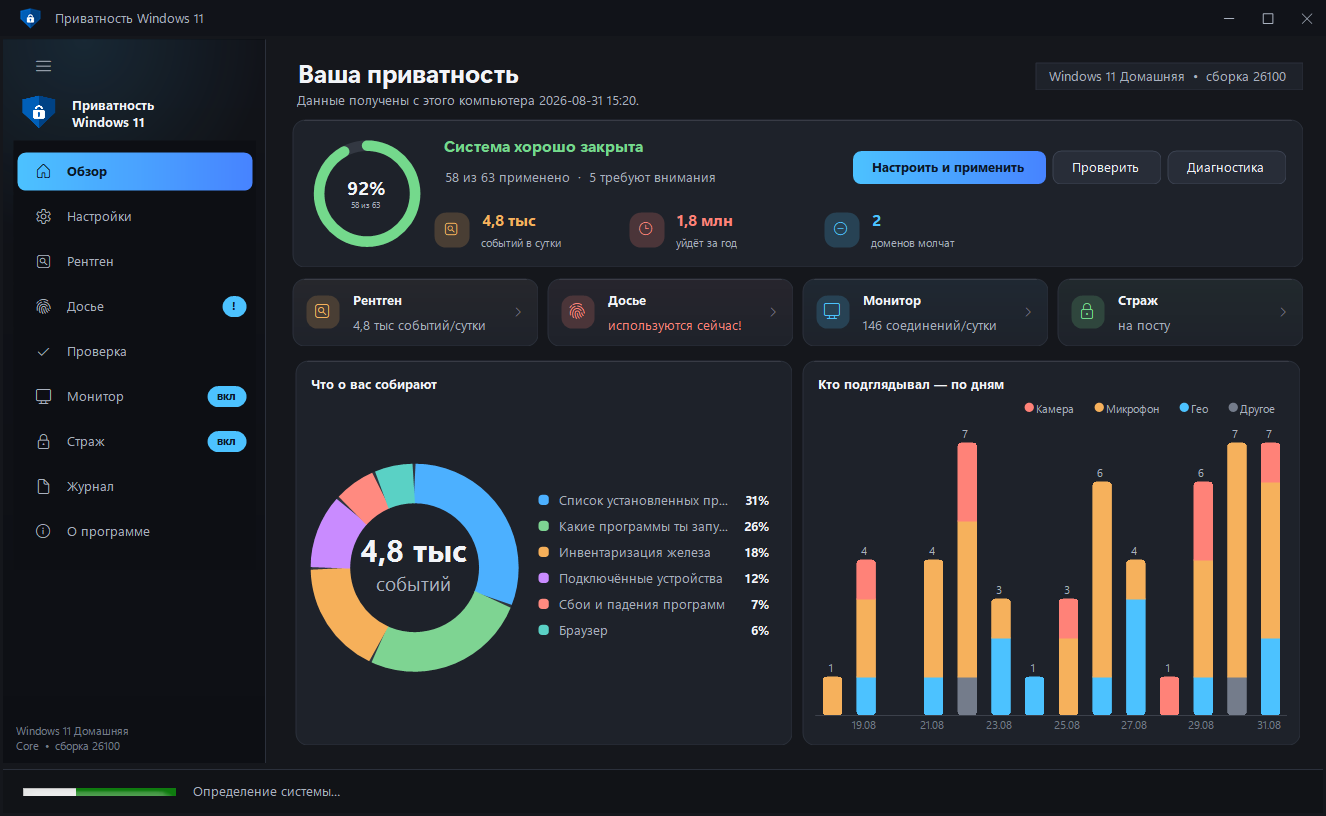
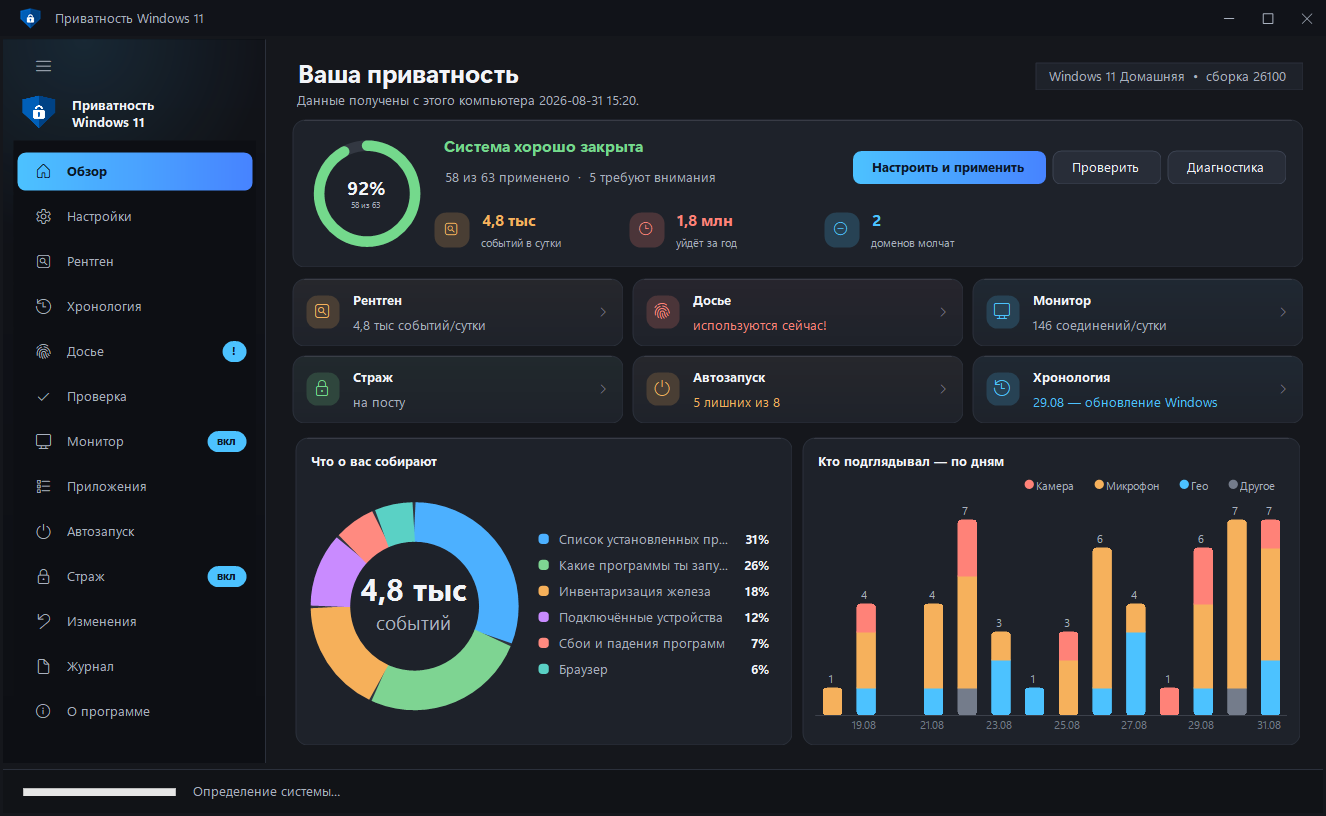
Честный индекс на любой Windows, переносимый режим, карточки новых разделов
1. Проверка больше не утверждает то, чего не проверяла. Вчера я сделал так,
   что настройки типа regpol показывали «Windows не разрешает» всегда, когда
   значение не задано, — даже если человек ни разу не нажимал «Применить».
   Отказ известен только после неудачной записи, он лежит в blocked.json;
   до этого надпись — «не задано».

2. На Windows 10 индекс больше не занижается. У определения появилась
   минимальная версия Windows; 12 настроек, которых до Windows 11 не было
   вовсе (Copilot, Recall, Click to Do, виджеты), помечены и не считаются
   ни в плюс, ни в минус. Проверил на копии движка, считающей себя сборкой
   19045: неприменимых 12, знаменатель 178 вместо 189, у каждой честная
   причина «нет на этой версии Windows». Политики Edge, Блокнота и Paint
   работают на обеих версиях и не помечены — иначе программа перестала бы
   применять их там, где они нужны.

3. Переносимый режим: файл portable.txt рядом с exe (или ключ --portable) —
   и всё хранится в папке Win11Privacy-Data рядом с программой: журнал,
   история, снимки, копии реестра, размер окна. Движок получает -DataRoot,
   задачи планировщика — тоже, иначе страж искал бы данные в ProgramData.

4. Сборка теперь ловит обрезанный текст, а не только вылезший за край:
   плитки сообщают о ellipsis в тестовой сборке, шаг «Прогнать страницы»
   падает на пометке ОБРЕЗАНО. Именно этот класс баг вы нашли глазами.

5. «Обзор» узнал о новых разделах: карточки «Автозапуск» (сколько лишних
[…]

diff --git a/MainForm.cs b/MainForm.cs
@@ -56,7 +56,7 @@ namespace Win11Privacy
         private Card _homeDonutCard, _homeChartCard;
         private Label _verdictTitle, _verdictSub;
         private MiniStat _msEvents, _msYear, _msBlocked;
-        private ActionCard _qcXray, _qcDossier, _qcMonitor, _qcGuard;
+        private ActionCard _qcXray, _qcDossier, _qcMonitor, _qcGuard, _qcStartup, _qcTimeline;
         private ChipLabel _homeSysChip;
         private Panel _homeScroll;
         private Control _pageApps;
@@ -795,18 +795,22 @@ namespace Win11Privacy
             // --- карточки разделов с живыми статусами --------------------------
             TileGrid quick = new TileGrid();
             quick.Dock = DockStyle.Fill; quick.AutoSize = true; quick.Font = Font;
-            quick.MinTileWidthU = 13.0F; quick.TileHeightU = 4.0F; quick.MaxCols = 4;
+            quick.MinTileWidthU = 13.0F; quick.TileHeightU = 4.0F; quick.MaxCols = 3;
             quick.Margin = new Padding(0, 0, 0, (int)(u * 0.7F));
             quick.Resize += delegate { FitHomeHeight(); };
             _qcXray    = new ActionCard(L.T("Рентген"), GXray, Theme.Warn);
             _qcDossier = new ActionCard(L.T("Досье"), GFinger, Theme.Err);
             _qcMonitor = new ActionCard(L.T("Монитор"), GNav3, Theme.Accent);
             _qcGuard   = new ActionCard(L.T("Страж"), GShield, Theme.Ok);
+            _qcStartup = new ActionCard(L.T("Автозапуск"), GPower, Theme.Warn);
+            _qcTimeline= new ActionCard(L.T("Хронология"), GHistory, Theme.Accent);
             _qcXray.Click    += delegate { Navigate("xray"); };
             _qcDossier.Click += delegate { Navigate("dossier"); };
             _qcMonitor.Click += delegate { Navigate("monitor"); };
             _qcGuard.Click   += delegate { Navigate("guard"); };
-            foreach (ActionCard c in new[] { _qcXray, _qcDossier, _qcMonitor, _qcGuard })
+            _qcStartup.Click += delegate { Navigate("startup"); };
+            _qcTimeline.Click+= delegate { Navigate("timeline"); };
+            foreach (ActionCard c in new[] { _qcXray, _qcDossier, _qcMonitor, _qcGuard, _qcStartup, _qcTimeline })
             { c.Font = Font; c.SetStatus(L.T("ожидание данных…"), Theme.TextFaint); quick.Controls.Add(c); }
             page.Controls.Add(quick, 0, 2);
 
@@ -947,6 +951,45 @@ namespace Win11Privacy
         }
 
         // Заполняет главный экран по уже полученным данным
+        private bool _homeExtraAsked;
+
+        // Автозапуск и хронология подтягиваются один раз при первом показе
+        // «Обзора»: держать их в стартовой очереди незачем, а карточка без
+        // цифры бесполезна.
+        private void FillHomeExtras()
+        {
+            if (_homeExtraAsked || _mockMode) return;
+#if UITEST
+            return;
+#pragma warning disable 0162
+#endif
+            _homeExtraAsked = true;
+            RunJson("-ListStartup", L.T("Чтение автозагрузки…"), delegate(Dictionary<string, object> d)
+            {
+                if (d == null) return;
+                _lastStartup = d;
+                int bad = Json.GetInt(d, "advise"), on = Json.GetInt(d, "on");
+                if (_qcStartup != null)
+                    _qcStartup.SetStatus(bad > 0 ? bad + L.T(" лишних из ") + on
+                                                 : on + L.T(" записей, лишних нет"),
+                                         bad > 0 ? Theme.Warn : Theme.Ok);
+                RunJson("-Timeline -TimelineDays 30", L.T("Сбор хронологии…"), delegate(Dictionary<string, object> t)
+                {
+                    if (t == null) return;
+                    _lastTimeline = t;
+                    List<object> notes = Json.GetArr(t, "notes");
+                    if (_qcTimeline == null) return;
+                    if (notes.Count == 0) { _qcTimeline.SetStatus(L.T("пока без событий"), Theme.TextFaint); return; }
+                    Dictionary<string, object> last = Json.Obj(notes[notes.Count - 1]);
+                    string kind = Json.GetStr(last, "kind");
+                    string what = kind == "update" ? L.T("обновление Windows") :
+                                  kind == "drift" ? L.T("Windows сбила настройки") : L.T("телеметрия выросла");
+                    _qcTimeline.SetStatus(Json.GetStr(last, "date") + " — " + what,
+                                          kind == "update" ? Theme.Accent : Theme.Warn);
+                });
+            });
+        }
+
         private void RefreshHome()
         {
             if (_homeRing == null) return;
@@ -2753,7 +2796,28 @@ namespace Win11Privacy
         }
         private Control _aboutEdition, _aboutData;
 #pragma warning disable 0649
-        private bool _mockMode;   // ставится только в тестовой сборке
+        private bool _mockMode;
+        // Переносимый режим: рядом с exe лежит файл portable.txt — тогда все
+        // данные программы хранятся там же, а не в ProgramData, и на чужом
+        // компьютере после себя ничего не остаётся.
+        private static string _portableRoot;
+        private static string PortableRoot()
+        {
+            if (_portableRoot != null) return _portableRoot;
+            _portableRoot = "";
+            try
+            {
+                string dir = Path.GetDirectoryName(Application.ExecutablePath);
+                if (File.Exists(Path.Combine(dir, "portable.txt")))
+                {
+                    string data = Path.Combine(dir, "Win11Privacy-Data");
+                    if (!Directory.Exists(data)) Directory.CreateDirectory(data);
+                    _portableRoot = data;
+                }
+            }
+            catch { }
+            return _portableRoot;
+        }   // ставится только в тестовой сборке
 #pragma warning restore 0649
         private FlowLayoutPanel _aboutFlow;
 
@@ -2978,6 +3042,8 @@ namespace Win11Privacy
         // ================================================================== //
         private static string UiStatePath()
         {
+            string portable = PortableRoot();
+            if (portable.Length > 0) return Path.Combine(portable, "ui.json");
             return Path.Combine(Environment.GetFolderPath(Environment.SpecialFolder.LocalApplicationData),
                                 "Win11Privacy", "ui.json");
         }
@@ -3214,9 +3280,13 @@ namespace Win11Privacy
         private ProcessStartInfo EnginePsi(string extra)
         {
             string script = ExtractEngine();
-            string desktop = Environment.GetFolderPath(Environment.SpecialFolder.Desktop);
+            string portable = PortableRoot();
+            string backupRoot = (portable.Length > 0)
+                ? portable
+                : Environment.GetFolderPath(Environment.SpecialFolder.Desktop);
             string args = "-NoProfile -NonInteractive -ExecutionPolicy Bypass -File \"" + script + "\" " + extra +
-                          " -BackupRoot \"" + desktop + "\"";
+                          " -BackupRoot \"" + backupRoot + "\"";
+            if (portable.Length > 0) args += " -DataRoot \"" + portable + "\"";
             ProcessStartInfo psi = new ProcessStartInfo();
             psi.FileName = PowerShellExe(); psi.Arguments = args;
             psi.UseShellExecute = false; psi.CreateNoWindow = true;
@@ -3551,6 +3621,9 @@ namespace Win11Privacy
             int blockedTiles = Json.GetInt(d, "blocked");
             if (blockedTiles > 0)
                 _auditTiles.Controls.Add(Tile(L.T("Windows не отдаёт"), blockedTiles.ToString(), L.T("не считаются в индексе"), Theme.TextFaint));
+            int naTiles = Json.GetInt(d, "notApplicable");
+            if (naTiles > 0)
+                _auditTiles.Controls.Add(Tile(L.T("Нет на этой Windows"), naTiles.ToString(), L.T("не считаются в индексе"), Theme.TextFaint));
             Dictionary<string, object> buf = Json.GetObj(d, "buffer");
             if (buf != null) { string mb = Json.GetStr(buf, "mb"); _auditTiles.Controls.Add(Tile(L.T("Буфер телеметрии"), (mb == "-1" ? L.T("нет") : mb + L.T(" МБ")), Json.GetInt(buf, "files") + L.T(" файлов ждут отправки"), Theme.Accent)); }
             List<object> dns = Json.GetArr(d, "dns");
@@ -3901,9 +3974,8 @@ namespace Win11Privacy
                     LoadDefs();
                     RunJson("-Spy", L.T("Чтение журнала датчиков…"), delegate(Dictionary<string, object> s)
                     {
-                        if (s == null) return;
-                        _lastSpy = s;
-                        RenderDossier();
+                        if (s != null) { _lastSpy = s; RenderDossier(); }
+                        FillHomeExtras();   // очередью, а не четырьмя процессами разом
                     });
                 }
             });
@@ -3998,6 +4070,7 @@ namespace Win11Privacy
                     Console.WriteLine("CLIENT " + f.ClientSize.Width + "x" + f.ClientSize.Height);
                     DumpBounds(f.PageOf(page), 0);
                 }
+                foreach (string clip in ClipWatch.Clipped) Console.WriteLine(clip);
                 Console.WriteLine("UITEST ok"); f.Close();
             };
             f.Shown += delegate {
@@ -4041,7 +4114,19 @@ namespace Win11Privacy
             for (int i = 0; i < argv.Length; i++)
             {
                 string a = argv[i].ToLowerInvariant();
-                if (a == "--profile" && i + 1 < argv.Length) profile = argv[++i];
+                if (a == "--portable")
+                {
+                    // ставим метку рядом с exe: дальше программа хранит всё там же
+                    try
+                    {
+                        string dir = Path.GetDirectoryName(Application.ExecutablePath);
+                        File.WriteAllText(Path.Combine(dir, "portable.txt"),
+                            "Пока этот файл лежит рядом с Win11Privacy.exe, программа хранит свои данные" +
+                            Environment.NewLine + "в папке Win11Privacy-Data рядом с собой, а не в ProgramData." + Environment.NewLine);
+                    }
+                    catch { }
+                }
+                else if (a == "--profile" && i + 1 < argv.Length) profile = argv[++i];
                 else if (a == "--silent" || a == "-silent") silent = true;
                 else if (a == "--audit") audit = true;
             }
@@ -4322,6 +4407,8 @@ namespace Win11Privacy
                 "{\"date\":\"22.08\",\"kind\":\"drift\",\"a\":6,\"b\":6,\"list\":\"\"}," +
                 "{\"date\":\"29.08\",\"kind\":\"update\",\"a\":0,\"b\":0,\"list\":\"KB5070101\"}]}");
             RenderTimeline(Json.ParseObject(tl.ToString()));
+            if (_qcStartup != null) _qcStartup.SetStatus("5 лишних из 8", Theme.Warn);
+            if (_qcTimeline != null) _qcTimeline.SetStatus("29.08 — обновление Windows", Theme.Accent);
 
             SetAboutBody(_aboutData, "Папка: C:\\ProgramData\\Win11Privacy\n" +
                 "• История датчиков по дням: кто включал камеру, микрофон и геолокацию — 9,9 КБ, изменён 2026-09-01 20:03\n" +

diff --git a/Ui.cs b/Ui.cs
@@ -216,6 +216,19 @@ namespace Win11Privacy
     // Строка списка, которую можно отфильтровать поиском по странице
     internal interface IFilterable { string FilterText { get; } }
 
+#if UITEST
+    // Обрезанный текст глазами ловил пользователь: подпись плитки уезжала в
+    // многоточие. Теперь элементы сами сообщают о таком, а сборка падает.
+    internal static class ClipWatch
+    {
+        public static readonly List<string> Clipped = new List<string>();
+        public static void Note(string where, string text, int need, int have)
+        {
+            Clipped.Add("ОБРЕЗАНО " + where + ": «" + text + "» нужно " + need + ", есть " + have);
+        }
+    }
+#endif
+
     internal class Card : Panel
     {
         public Card()
@@ -933,6 +946,15 @@ namespace Win11Privacy
             using (SolidBrush b = new SolidBrush(Accent)) g.FillPath(b, p);
 
             int u = Font.Height;
+#if UITEST
+            using (Font cfm = new Font(Font.FontFamily, Font.Size * 0.8F, FontStyle.Bold))
+            {
+                int capW = Width - (int)(u * 1.5F);
+                Size capNeed = TextRenderer.MeasureText(g, Caption.ToUpperInvariant(), cfm,
+                                   new Size(int.MaxValue, int.MaxValue), TextFormatFlags.NoPadding);
+                if (capNeed.Width > capW) ClipWatch.Note("StatTile.Caption", Caption, capNeed.Width, capW);
+            }
+#endif
             TextRenderer.DrawText(g, Caption.ToUpperInvariant(), new Font(Font.FontFamily, Font.Size * 0.8F, FontStyle.Bold),
                 new Rectangle((int)(u * 0.9F), (int)(u * 0.5F), Width - (int)(u * 1.5F), u * 2), Theme.TextFaint,
                 TextFormatFlags.Left | TextFormatFlags.Top | TextFormatFlags.EndEllipsis | TextFormatFlags.SingleLine);
@@ -966,6 +988,9 @@ namespace Win11Privacy
                 }
                 TextRenderer.DrawText(g, Sub, sf, new Rectangle(subL, subT, subW, subH), Theme.TextDim,
                     TextFormatFlags.Left | TextFormatFlags.Top | TextFormatFlags.WordBreak | TextFormatFlags.EndEllipsis);
+#if UITEST
+                if (need.Height > subH) ClipWatch.Note("StatTile.Sub", Sub, need.Height, subH);
+#endif
                 if (shrunk != null) shrunk.Dispose();
             }
         }

diff --git a/Lang.cs b/Lang.cs
@@ -40,7 +40,7 @@ namespace Win11Privacy
 
         private static void Build()
         {
-            _map = new Dictionary<string, string>(934, StringComparer.Ordinal);
+            _map = new Dictionary<string, string>(942, StringComparer.Ordinal);
             _map[" ч"] = " h";
             _map[" МБ"] = " MB";
             _map[" ч "] = " h ";
@@ -975,6 +975,14 @@ namespace Win11Privacy
             _map["Дата"] = "Date";
             _map["Событие"] = "Event";
             _map[" проходит, по кэшу DNS"] = " leaking, per DNS cache";
+            _map[" лишних из "] = " not needed of ";
+            _map[" записей, лишних нет"] = " entries, nothing extra";
+            _map["пока без событий"] = "no events yet";
+            _map["обновление Windows"] = "a Windows update";
+            _map["Windows сбила настройки"] = "Windows reverted settings";
+            _map["телеметрия выросла"] = "telemetry grew";
+            _map["Нет на этой Windows"] = "Not on this Windows";
+            _map["нет на этой версии Windows"] = "not on this Windows version";
         }
     }
 }

diff --git a/README.md b/README.md
@@ -41,6 +41,8 @@
 | **Возврат из копии** | Резервные копии реестра не просто складываются на диск — программа сама их находит и возвращает выбранную одним нажатием. |
 | **Откат одной кнопкой** | Программа ведёт журнал изменений и возвращает каждый параметр в то значение, что было до неё. Ручной импорт .reg не нужен. |
 | **Видно, что изменено** | Страница «Изменения» показывает каждую правку: что было, что стало и где это лежит. Любую строку можно вернуть отдельно, не откатывая остальное. |
+| **Считает честно** | Индекс не занижается тем, что от программы не зависит: настройки, которых нет на этой версии Windows, и параметры, которые Windows не отдаёт даже администратору, показаны отдельно и в знаменатель не идут. |
+| **Переносимый режим** | Положите рядом с `Win11Privacy.exe` файл `portable.txt` — и программа будет хранить всё в папке рядом с собой, а не в системе. Для флешки и чужого компьютера. |
 | **Убирает и за собой** | Всё, что программа накопила о вас у себя — историю датчиков, журнал, снимки — видно на «О программе» и стирается одной кнопкой. |
 | **Сессии трассировки ETW** | Windows запускает сборщики телеметрии при загрузке, помимо службы DiagTrack — программа выключает и их. |
 | **Доказательство результата** | Не «индекс 92 %», а что было до программы и что стало: сборщики, задачи, домены, события в сутки. |
@@ -49,6 +51,28 @@
 Ещё: готовые наборы «Базовый / Строгий / Максимум», телеметрия сторонних программ (Chrome, Edge, Office, VS Code, NVIDIA, PowerShell, Visual Studio),
 слежка производителя ноутбука, блокировка через брандмауэр, стирание накопленного буфера телеметрии,
 профили и тихий запуск из командной строки, диагностика, светлая и тёмная темы.
+
+---
+
+## Переносимый режим
+
+Обычно программа держит свои данные в `C:\ProgramData\Win11Privacy`, а размер
+окна и язык — в `%LOCALAPPDATA%`. Если положить рядом с `Win11Privacy.exe` файл
+**`portable.txt`** (или один раз запустить `Win11Privacy.exe --portable`), всё
+переедет в папку `Win11Privacy-Data` рядом с самой программой: журнал изменений,
+история датчиков, снимки, резервные копии реестра и настройки окна. На чужом
+компьютере после себя не остаётся ничего, кроме самих изменений в системе —
+которые по-прежнему можно откатить.
+
+---
+
+## Windows 10
+
+Программа работает и на Windows 10, но 12 настроек из набора относятся к тому,
+чего там нет вовсе: Copilot, Recall, Click to Do, виджеты. Они помечены
+минимальной версией Windows, не применяются и **не считаются в индексе** —
+на «Проверке» видно плитку «Нет на этой Windows». Политики Edge, Блокнота и
+Paint при этом работают на обеих версиях и применяются как обычно.
 
 ---
 
@@ -84,6 +108,10 @@
 | Приложения — удаление предустановленного | Рентген телеметрии |
 |---|---|
 | <img src="docs/apps.png" alt="Приложения"> | <img src="docs/xray.png" alt="Рентген"> |
+
+| Проверка — индекс, что не применено и чего нет на этой Windows |
+|---|
+| <img src="docs/audit.png" alt="Проверка"> |
 
 | Автозапуск — что стартует вместе с Windows | Монитор — кто отправляет и кому закрыт выход |
 |---|---|
@@ -167,6 +195,7 @@ powershell.exe -File engine.ps1 -Modules telemetry,ads,cleanup -BackupRoot "C:\.
 | `-ListStartup` | автозагрузка: что стартует вместе с Windows |
 | `-ChangeLog` / `-RestoreItems -ChangeItems a,b` | журнал изменений и возврат отдельных записей |
 | `-DataInfo` / `-PurgeData` | что программа хранит о вас у себя и удаление этого |
+| `-DataRoot "C:\...\Win11Privacy-Data"` | держать данные в указанной папке (переносимый режим) |
 | `-Timeline -TimelineDays 30` | хронология: телеметрия по дням, обновления Windows, правки и возвраты |
 | `-ListBackups` / `-RestoreBackup -BackupPath ...` | резервные копии реестра: список и возврат |
 | `-CleanJunk` | убрать параметры, записанные версиями до 1.6 под числовыми именами |
